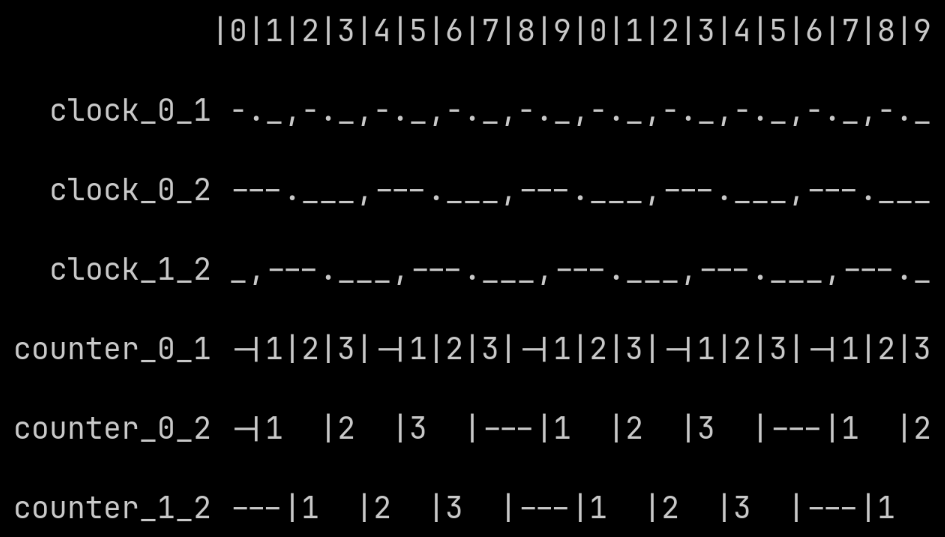
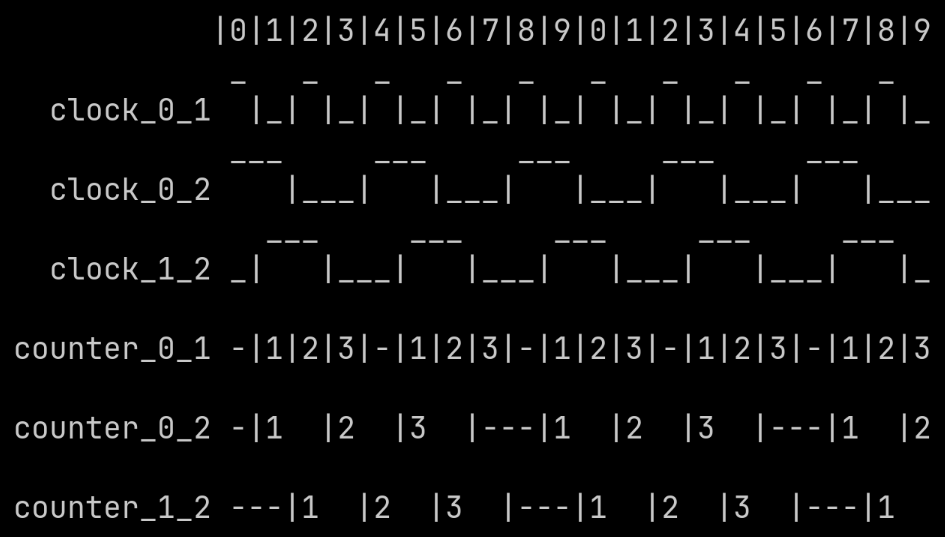
Improve `render_trace`'s ASCII output.
This makes it easier to visually distinguish high and low, for 1-bit signals.

diff --git a/pyrtl/simulation.py b/pyrtl/simulation.py
@@ -1376,10 +1376,10 @@ class Utf8RendererConstants(RendererConstants):
 
     This is the default renderer.
 
-    Enable this renderer by default by setting the ``PYRTL_RENDERER`` environment
-    variable to ``utf-8``::
+    Use this renderer by default by setting the ``PYRTL_RENDERER`` environment variable
+    to ``utf-8``::
 
-        export PYRTL_RENDERER=utf-8
+        $ export PYRTL_RENDERER=utf-8
 
     .. image:: ../docs/screenshots/pyrtl-renderer-demo-utf-8.png
        :width: 35em
@@ -1417,10 +1417,10 @@ class Utf8AltRendererConstants(RendererConstants):
     Compared to :class:`Utf8RendererConstants`, this renderer is more compact because it
     uses one character between cycles instead of two.
 
-    Enable this renderer by default by setting the ``PYRTL_RENDERER`` environment
-    variable to ``utf-8-alt``::
+    Use this renderer by default by setting the ``PYRTL_RENDERER`` environment variable
+    to ``utf-8-alt``::
 
-        export PYRTL_RENDERER=utf-8-alt
+        $ export PYRTL_RENDERER=utf-8-alt
 
     .. image:: ../docs/screenshots/pyrtl-renderer-demo-utf-8-alt.png
        :width: 25em
@@ -1456,10 +1456,10 @@ class PowerlineRendererConstants(Utf8RendererConstants):
     This renderer requires a `terminal font that supports Powerline glyphs
     <https://github.com/powerline/fonts>`_.
 
-    Enable this renderer by default by setting the ``PYRTL_RENDERER`` environment
-    variable to ``powerline``::
+    Use this renderer by default by setting the ``PYRTL_RENDERER`` environment variable
+    to ``powerline``::
 
-        export PYRTL_RENDERER=powerline
+         $ export PYRTL_RENDERER=powerline
 
     .. image:: ../docs/screenshots/pyrtl-renderer-demo-powerline.png
        :width: 35em
@@ -1487,10 +1487,10 @@ class Utf8BasicRendererConstants(RendererConstants):
     codes <https://en.wikipedia.org/wiki/ANSI_escape_code>`_, which makes its output
     suitable for inclusion in text files.
 
-    Enable this renderer by default by setting the ``PYRTL_RENDERER`` environment
-    variable to ``utf-8-basic``::
+    Use this renderer by default by setting the ``PYRTL_RENDERER`` environment variable
+    to ``utf-8-basic``::
 
-        export PYRTL_RENDERER=utf-8-basic
+        $ export PYRTL_RENDERER=utf-8-basic
 
     .. image:: ../docs/screenshots/pyrtl-renderer-demo-utf-8-basic.png
        :width: 25em
@@ -1515,14 +1515,14 @@ class Utf8BasicRendererConstants(RendererConstants):
 class AsciiRendererConstants(RendererConstants):
     """7-bit ASCII renderer constants. These should work anywhere.
 
-    Single-bit :class:`WireVectors<WireVector>` are rendered as waveforms with sloped
-    rising and falling edges. Multi-bit :class:`WireVector` values are rendered between
-    vertical bars.
+    Single-bit :class:`WireVectors<WireVector>` are rendered as square waveforms with
+    vertical rising and falling edges. Multi-bit :class:`WireVector` values are rendered
+    between vertical bars.
 
-    Enable this renderer by default by setting the ``PYRTL_RENDERER`` environment
-    variable to ``ascii``::
+    Use this renderer by default by setting the ``PYRTL_RENDERER`` environment variable
+    to ``ascii``::
 
-        export PYRTL_RENDERER=ascii
+        $ export PYRTL_RENDERER=ascii
 
     .. image:: ../docs/screenshots/pyrtl-renderer-demo-ascii.png
        :width: 25em
@@ -1530,8 +1530,11 @@ class AsciiRendererConstants(RendererConstants):
 
     _tick = "|"
 
-    _up, _down = ",", "."
-    _low, _high = "_", "-"
+    _up, _down = "|", "|"
+    _low, _high = "_", " "
+
+    _prev_line_up, _prev_line_down = " ", " "
+    _prev_line_low, _prev_line_high = " ", "_"
 
     _x = "|"
     _zero_x = "|"

diff --git a/tests/test_simulation.py b/tests/test_simulation.py
@@ -186,7 +186,7 @@ class RenderTraceBase(unittest.TestCase):
         )
         buff = io.StringIO()
         sim.tracer.render_trace(file=buff, renderer=self.renderer, **kwargs)
-        self.assertEqual(buff.getvalue(), expected)
+        self.assertEqual(expected, buff.getvalue())
 
     def test_hex_trace(self):
         expected = (
@@ -195,8 +195,8 @@ class RenderTraceBase(unittest.TestCase):
             "a 0x1 |0x4 |0x9 |0xb |0xc\n"
             "  \n"
             "b 0x2 |0x17|0x2b|0x78|----\n"
-            "  \n"
-            "c ____,---------.____,----\n"
+            "       _________      ____\n"
+            "c ____|         |____|\n"
         )
         self.check_rendered_trace(expected)
 
@@ -207,8 +207,8 @@ class RenderTraceBase(unittest.TestCase):
             "a 0o1  |0o4  |0o11 |0o13 |0o14\n"
             "  \n"
             "b 0o2  |0o27 |0o53 |0o170|-----\n"
-            "  \n"
-            "c _____,-----------._____,-----\n"
+            "        ___________       _____\n"
+            "c _____|           |_____|\n"
         )
 
         self.check_rendered_trace(expected, repr_func=oct)
@@ -220,8 +220,8 @@ class RenderTraceBase(unittest.TestCase):
             "a 0b1      |0b100    |0b1001   |0b1011   |0b1100\n"
             "  \n"
             "b 0b10     |0b10111  |0b101011 |0b1111000|---------\n"
-            "  \n"
-            "c _________,-------------------._________,---------\n"
+            "            ___________________           _________\n"
+            "c _________|                   |_________|\n"
         )
 
         self.check_rendered_trace(expected, repr_func=bin)
@@ -233,8 +233,8 @@ class RenderTraceBase(unittest.TestCase):
             "a 1  |4  |9  |11 |12\n"
             "  \n"
             "b 2  |23 |43 |120|---\n"
-            "  \n"
-            "c ___,-------.___,---\n"
+            "      _______     ___\n"
+            "c ___|       |___|\n"
         )
         self.check_rendered_trace(expected, repr_func=str)
 

diff --git a/examples/renderer-demo.py b/examples/renderer-demo.py
@@ -85,8 +85,8 @@ else:
     )
 
 for name, (constants, notes) in renderers.items():
-    print(f"# {notes}")
-    print(f"export PYRTL_RENDERER={name}\n")
+    print(f"# {notes}\n")
+    print(f"$ export PYRTL_RENDERER={name}\n")
     sim.tracer.render_trace(
         renderer=pyrtl.simulation.WaveRenderer(constants), repr_func=int
     )
